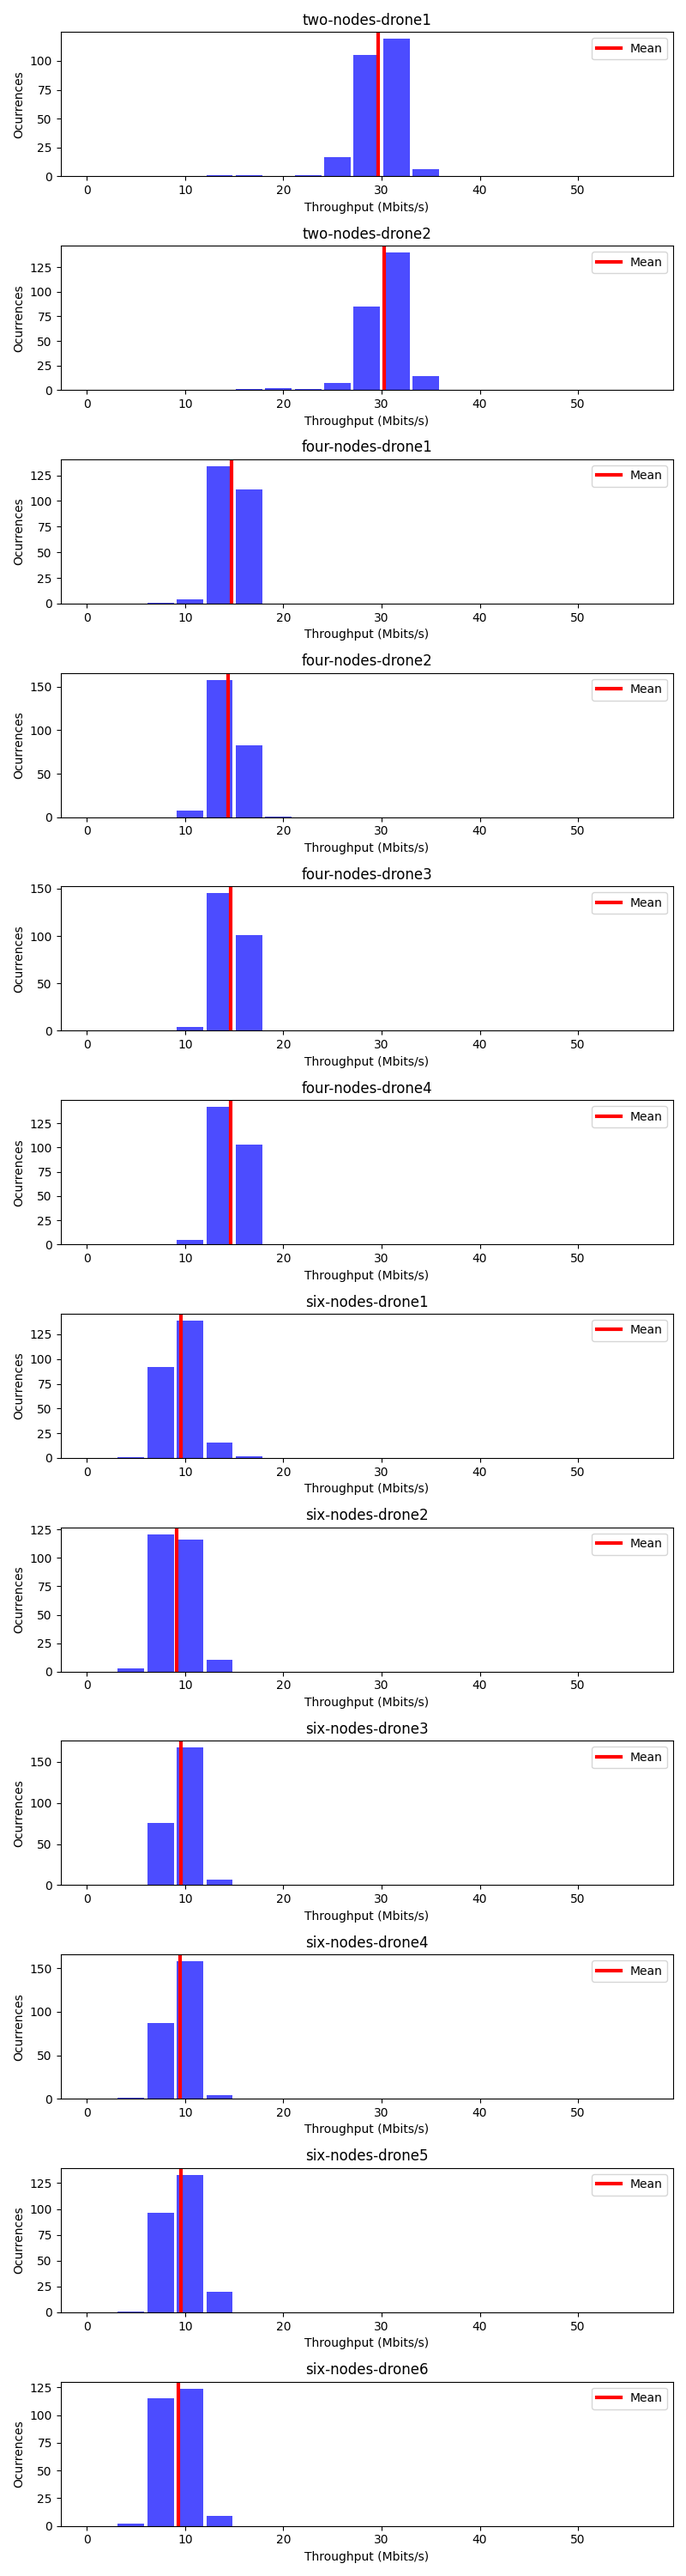
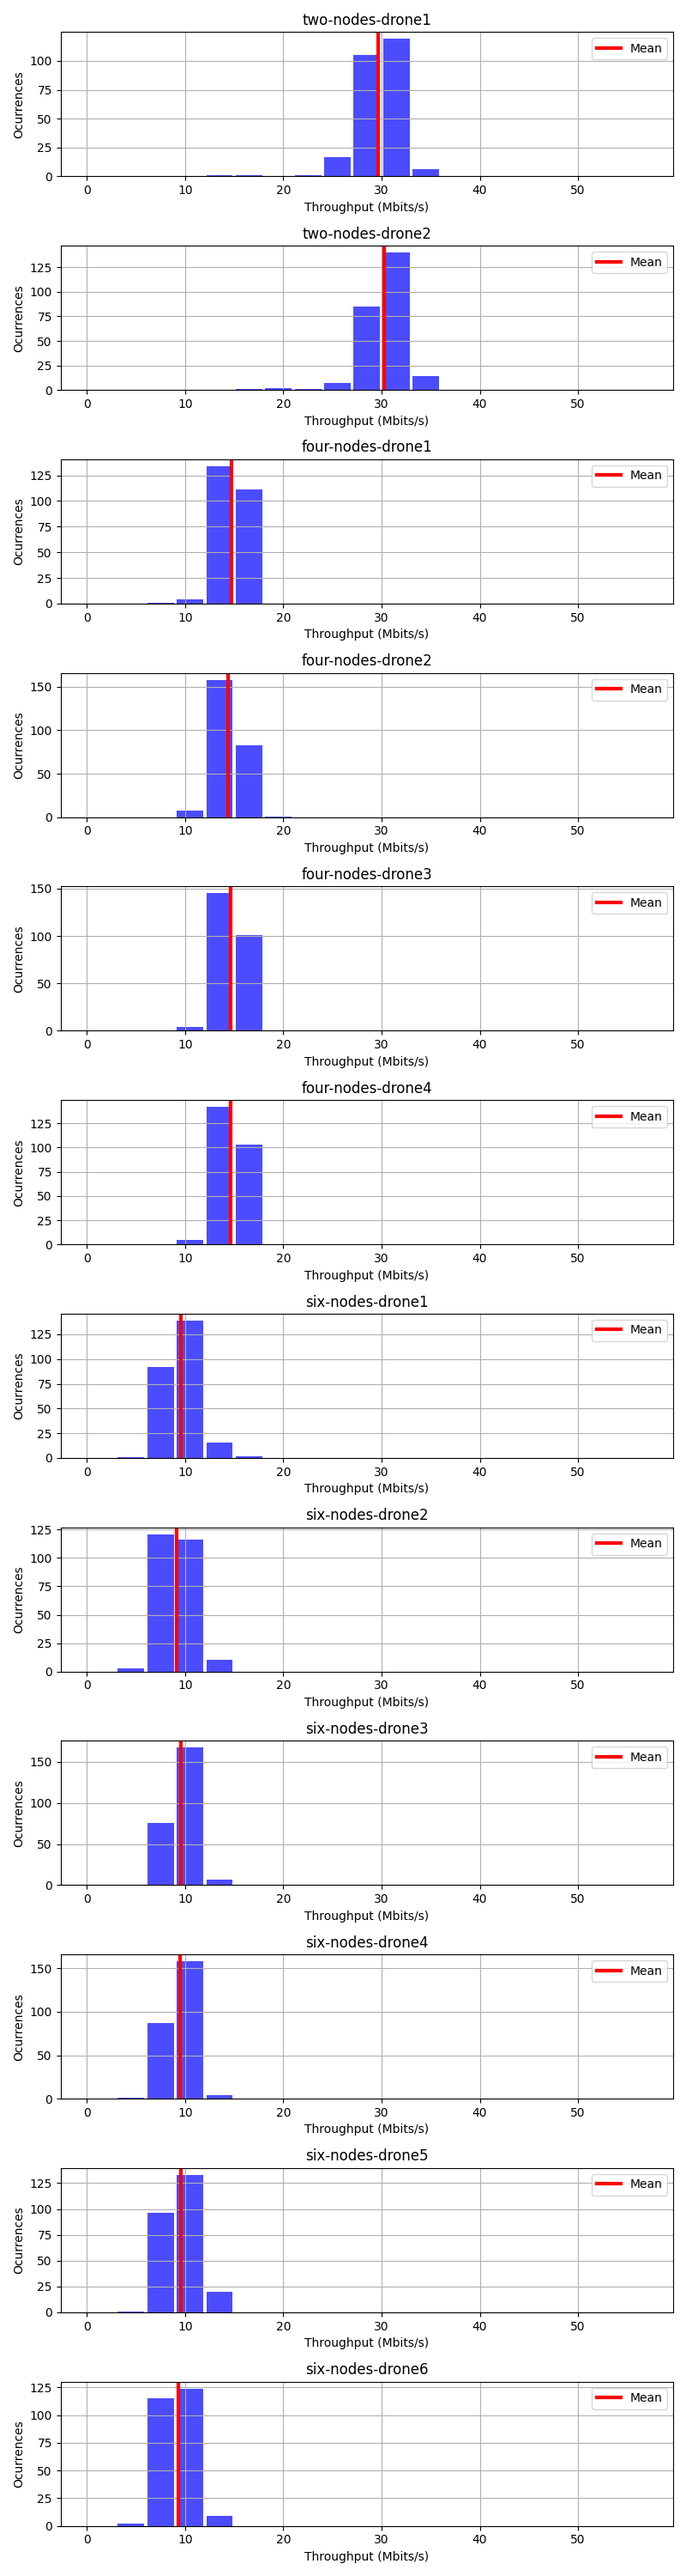
Added grid to distributions and created normalized plots

diff --git a/docs/logs/generateCharts.py b/docs/logs/generateCharts.py
@@ -5,7 +5,7 @@ import numpy as np
 from scipy.stats import shapiro
 from numpy.random import randn
 import matplotlib.pyplot as plt
-from matplotlib.ticker import MultipleLocator, FuncFormatter
+from matplotlib.ticker import MultipleLocator, FuncFormatter, MaxNLocator
 import scipy.optimize as opt;
 
 #Flags
@@ -217,6 +217,7 @@ def show_distributions():
 
                 axes[index].axvline(x = df['Throughput'].mean(), color = 'r', label = 'Mean',  linewidth=3, zorder=2)
                 axes[index].legend()
+                axes[index].grid()
 
                 index+=1
         
@@ -235,7 +236,7 @@ def custom_tick_formatter_line_y(value, _):
 def custom_tick_formatter_line_x(value, _):
     # Only label certain ticks (e.g., 10, 15, etc.)
     if value in [2,4,6]:
-        return f"{value}"
+        return f"{int(value)}"
     return ""  # Hide other ticks
 
 def show_node_number_line():
@@ -310,28 +311,44 @@ def show_node_number_line():
         csma_y.append(np.mean(node_avg_list))
         csma_error.append(np.std(node_avg_list))
     
-    ideal_y = [60/x for x in range(2,7,2)]
+    ideal_throughput = [65/x for x in range(2,7,2)]
+    ideal_y = [ (a / b) * 100 for a, b in zip(ideal_throughput, ideal_throughput)]
+    normalized_tdma_y = [(a / b) * 100 for a,b in zip(tdma_y, ideal_throughput)]
+    normalized_csma_y = [(a / b) * 100 for a,b in zip(csma_y, ideal_throughput)]
 
     plt.figure()
 
-    plt.scatter(x, tdma_y, label='TDMA 50ms slots', marker='o', zorder=1)
-    plt.plot(x, tdma_y, zorder=2)
-    plt.scatter(x, csma_y, label='CSMA',marker='s', zorder=1)
-    plt.plot(x, csma_y, zorder=2)
+    plt.scatter(x, normalized_tdma_y, label='TDMA', marker='o', zorder=1)
+    plt.plot(x, normalized_tdma_y, zorder=2)
+
+    for i, value in enumerate(tdma_y):
+        plt.annotate(f'{round(value,2)} Mbits/s', (x[i], normalized_tdma_y[i]), textcoords="offset points", xytext=(0, 4), ha='left')
+
+    plt.scatter(x, normalized_csma_y, label='CSMA',marker='s', zorder=1)
+    plt.plot(x, normalized_csma_y, zorder=2)
+
+    for i, value in enumerate(csma_y):
+        plt.annotate(f'{round(value,2)} Mbits/s', (x[i], normalized_csma_y[i]), textcoords="offset points", xytext=(0, 4), ha='left')
+
     plt.scatter(x, ideal_y, label='Ideal', marker='v', zorder=1)
     plt.plot(x, ideal_y, zorder=2)
 
+    for i, value in enumerate(ideal_throughput):
+        plt.annotate(f'{round(value,2)} Mbits/s', (x[i], ideal_y[i]), textcoords="offset points", xytext=(16, -16), ha='center')
+
     ax = plt.gca()
-    ax.yaxis.set_major_locator(MultipleLocator(0.5))
-    ax.yaxis.set_major_formatter(FuncFormatter(custom_tick_formatter_line_y))
+    #ax.yaxis.set_major_locator(MultipleLocator(0.2))
+    #ax.yaxis.set_major_formatter(FuncFormatter(custom_tick_formatter_line_y))
     ax.xaxis.set_major_formatter(FuncFormatter(custom_tick_formatter_line_x))
+    ax.xaxis.set_major_locator(MaxNLocator(integer=True))
 
-    plt.legend()
-    plt.title("Node Throughput VS Number of Nodes")
+    plt.legend(fontsize='small', loc=5, bbox_to_anchor=(1, 0.7))
+    plt.grid()
+    plt.title("Node Throughput VS Number of Nodes (Normalized)")
     plt.xlabel("Number of Nodes (N)")
-    plt.ylabel("Average Throughput (Mbits/s)") 
+    plt.ylabel("Achieved Throughput (%)") 
 
-    plt.savefig('charts/errorbar-node-number.png')
+    plt.savefig('charts/normalized-node-number.png')
 
 def show_sync():
 
@@ -525,8 +542,8 @@ def main():
     if(distributions):
         show_distributions()
     elif (node_number):
-        show_node_number_boxplot()
-        #show_node_number_line()
+        #show_node_number_boxplot()
+        show_node_number_line()
     elif(over_time):
         #show_over_time()
         show_sync()
